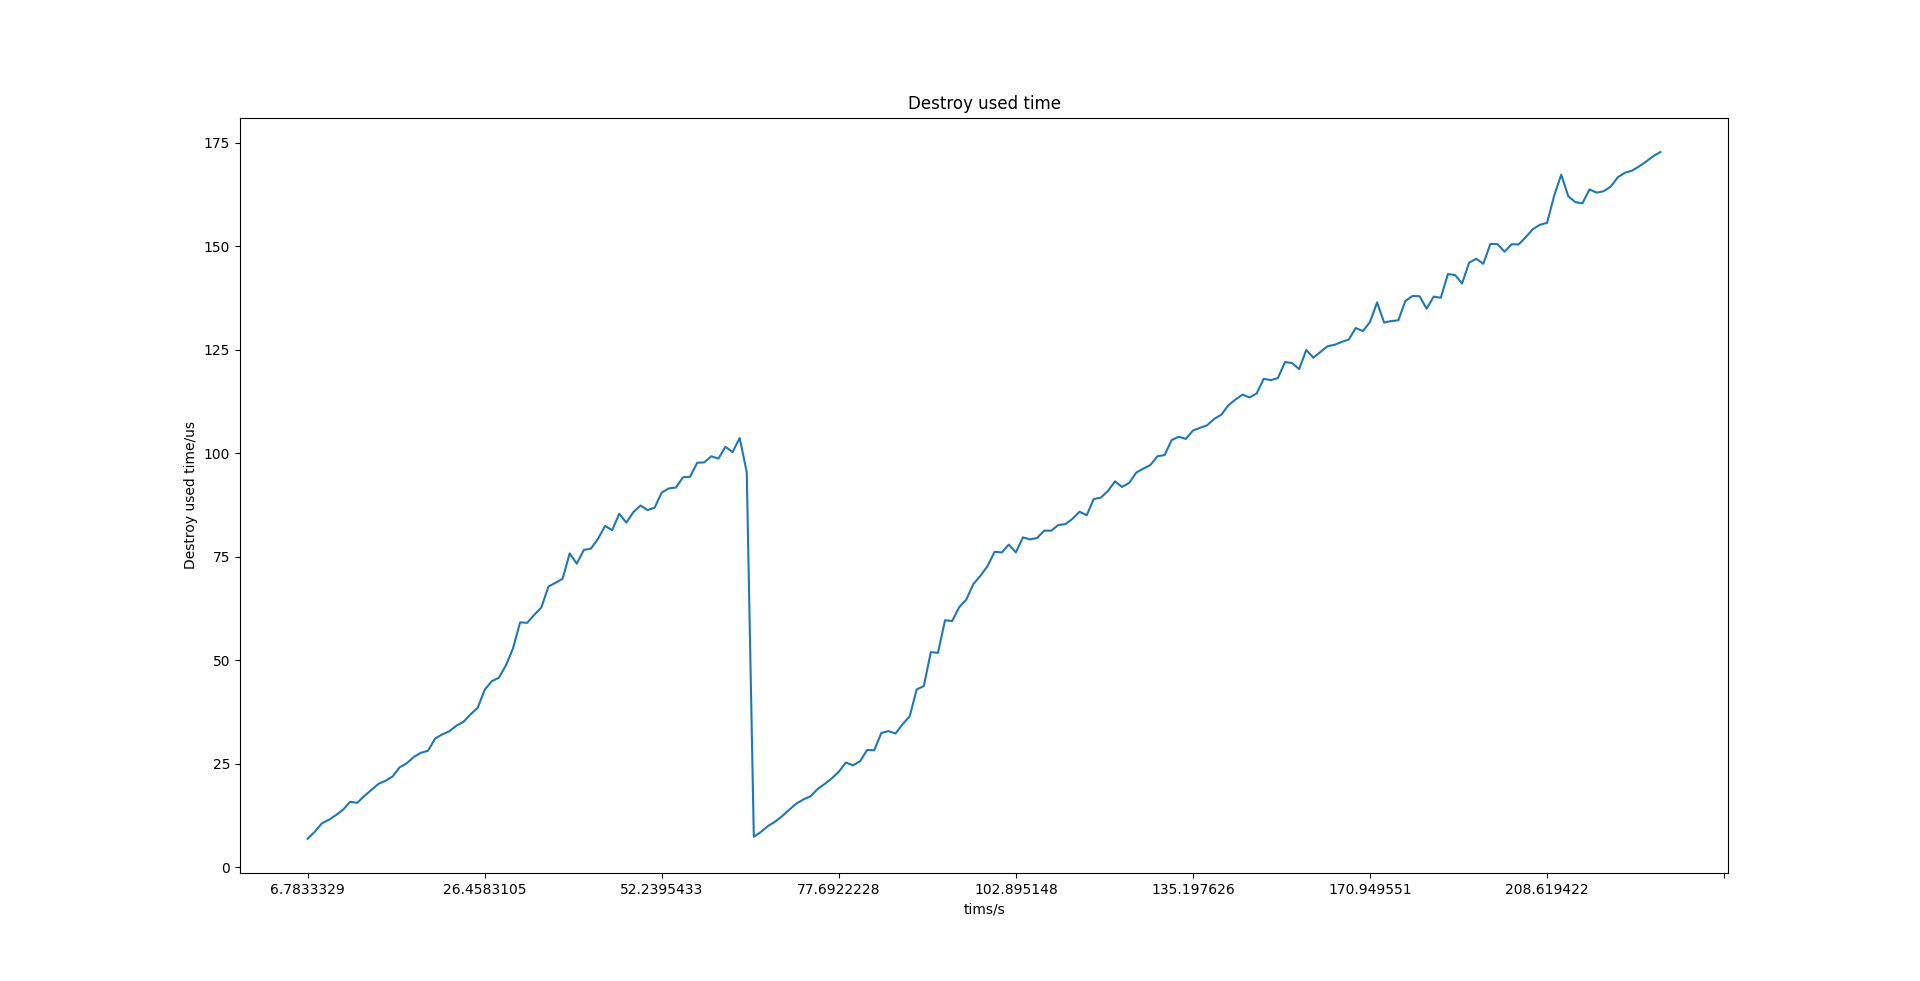
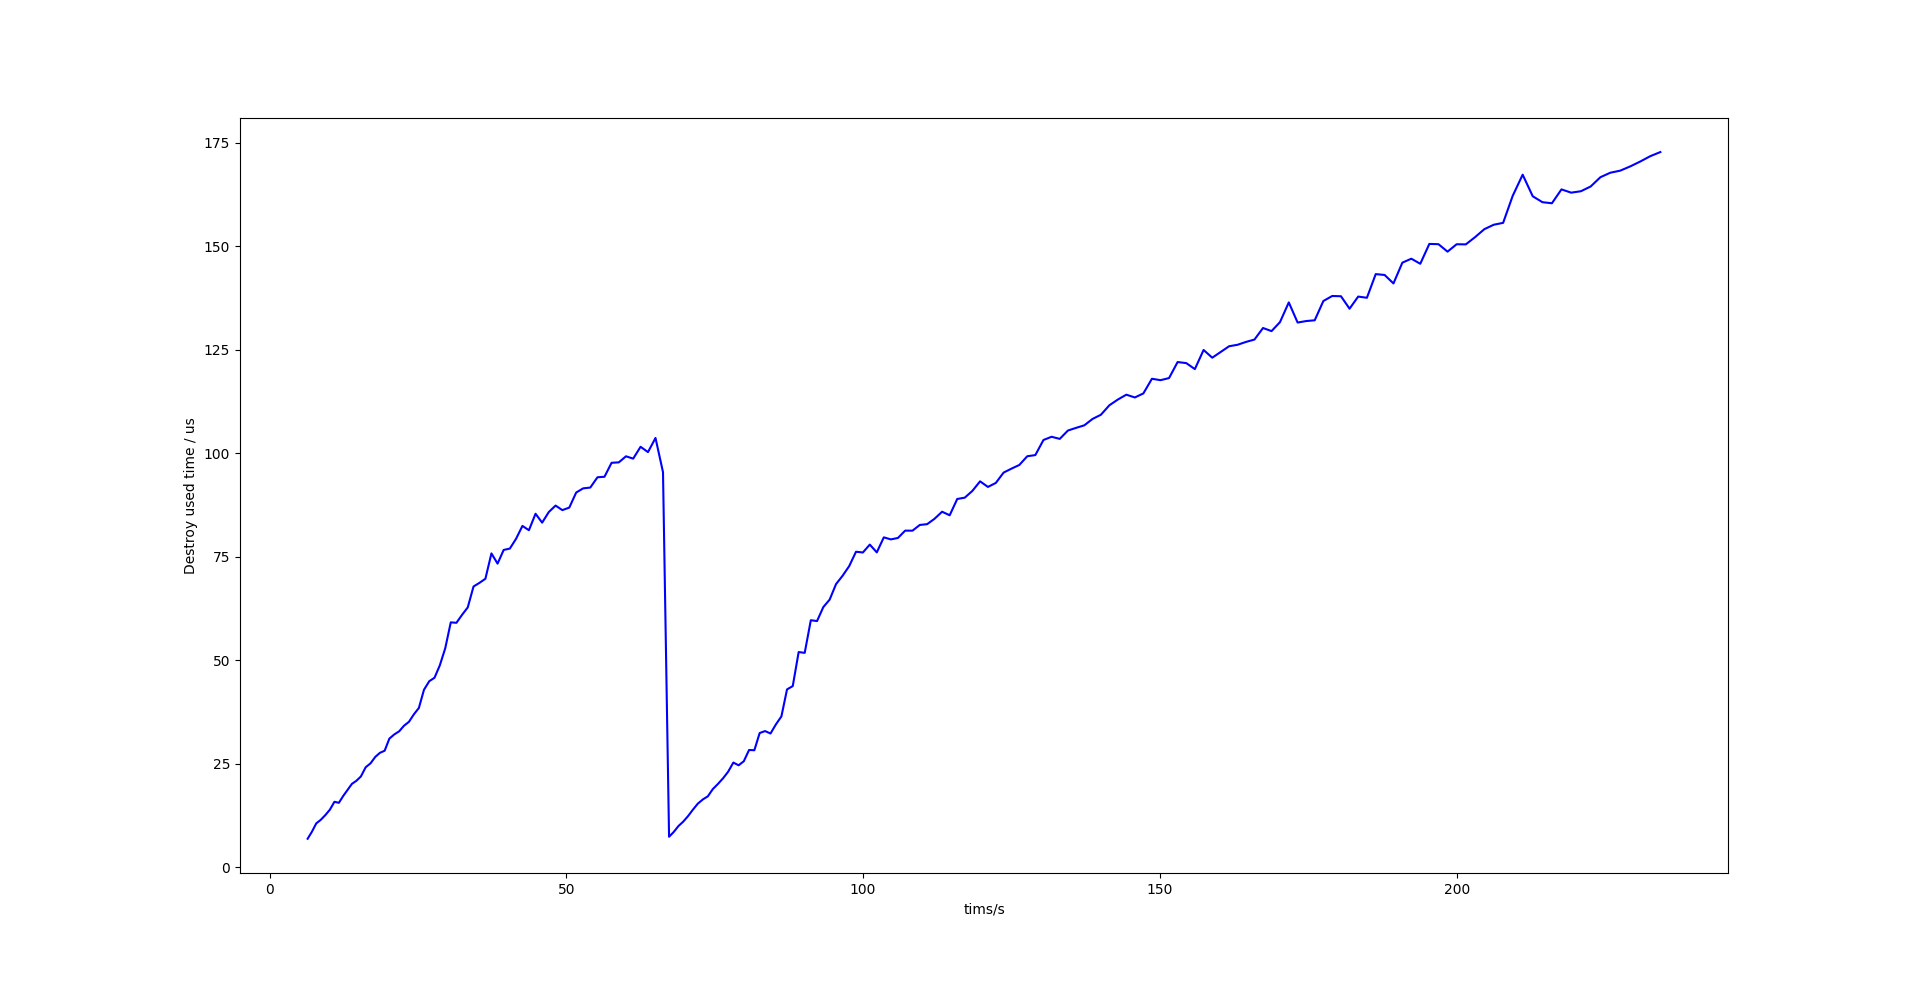
Doc

diff --git a/Plugins/ObjectPoolSystem/Doc/ActorSpawnDestroy.md b/Plugins/ObjectPoolSystem/Doc/ActorSpawnDestroy.md
@@ -230,7 +230,7 @@ bool UWorld::DestroyActor( AActor* ThisActor, bool bNetForce, bool bShouldModify
 
 ![image](./Image/DestroyEnd.PNG)
 
-可以看出销毁相同数量的 Actor ，所用的事件越来越长。
+可以看出销毁相同数量的 Actor ，所用的时间越来越长。
 我们导出销毁的数据，将其绘制成图表如下：
 
 ![image](./Image/DestroyTime.png)
@@ -273,9 +273,9 @@ void UWorld::RemoveActor(AActor* Actor, bool bShouldModifyLevel) const
 
 从代码中可以看到从 ULevel::Actors 中查找到 Actor 的索引，只是将这个索引对应的元素置空，并没有将这个元素从数组中移除，可以想象，随着我们不断的生成与销毁 Actor ，这个数组会越来越大，而且数组中会有很多空元素，这样在查找时就会消耗更多的时间。
 
-在测试的 Tick 中，我们每一次 Tick 使用日志记录了 ActorList 的长度，将其绘制成图表如下：
+在测试的 Tick 中，我们每一次 Tick 使用日志记录了 ActorList 的长度，将其绘制成图表并与上图进行对比：
 
-![image](./Image/ActorsSize.png)
+![image](./Image/DestroyTimeAndActorsCount.png)
 
 对比上面两张图，可以判断出销毁时间与 ActorList 的长度成正相关。性能的消耗确实在这个数组的查找上。
 
